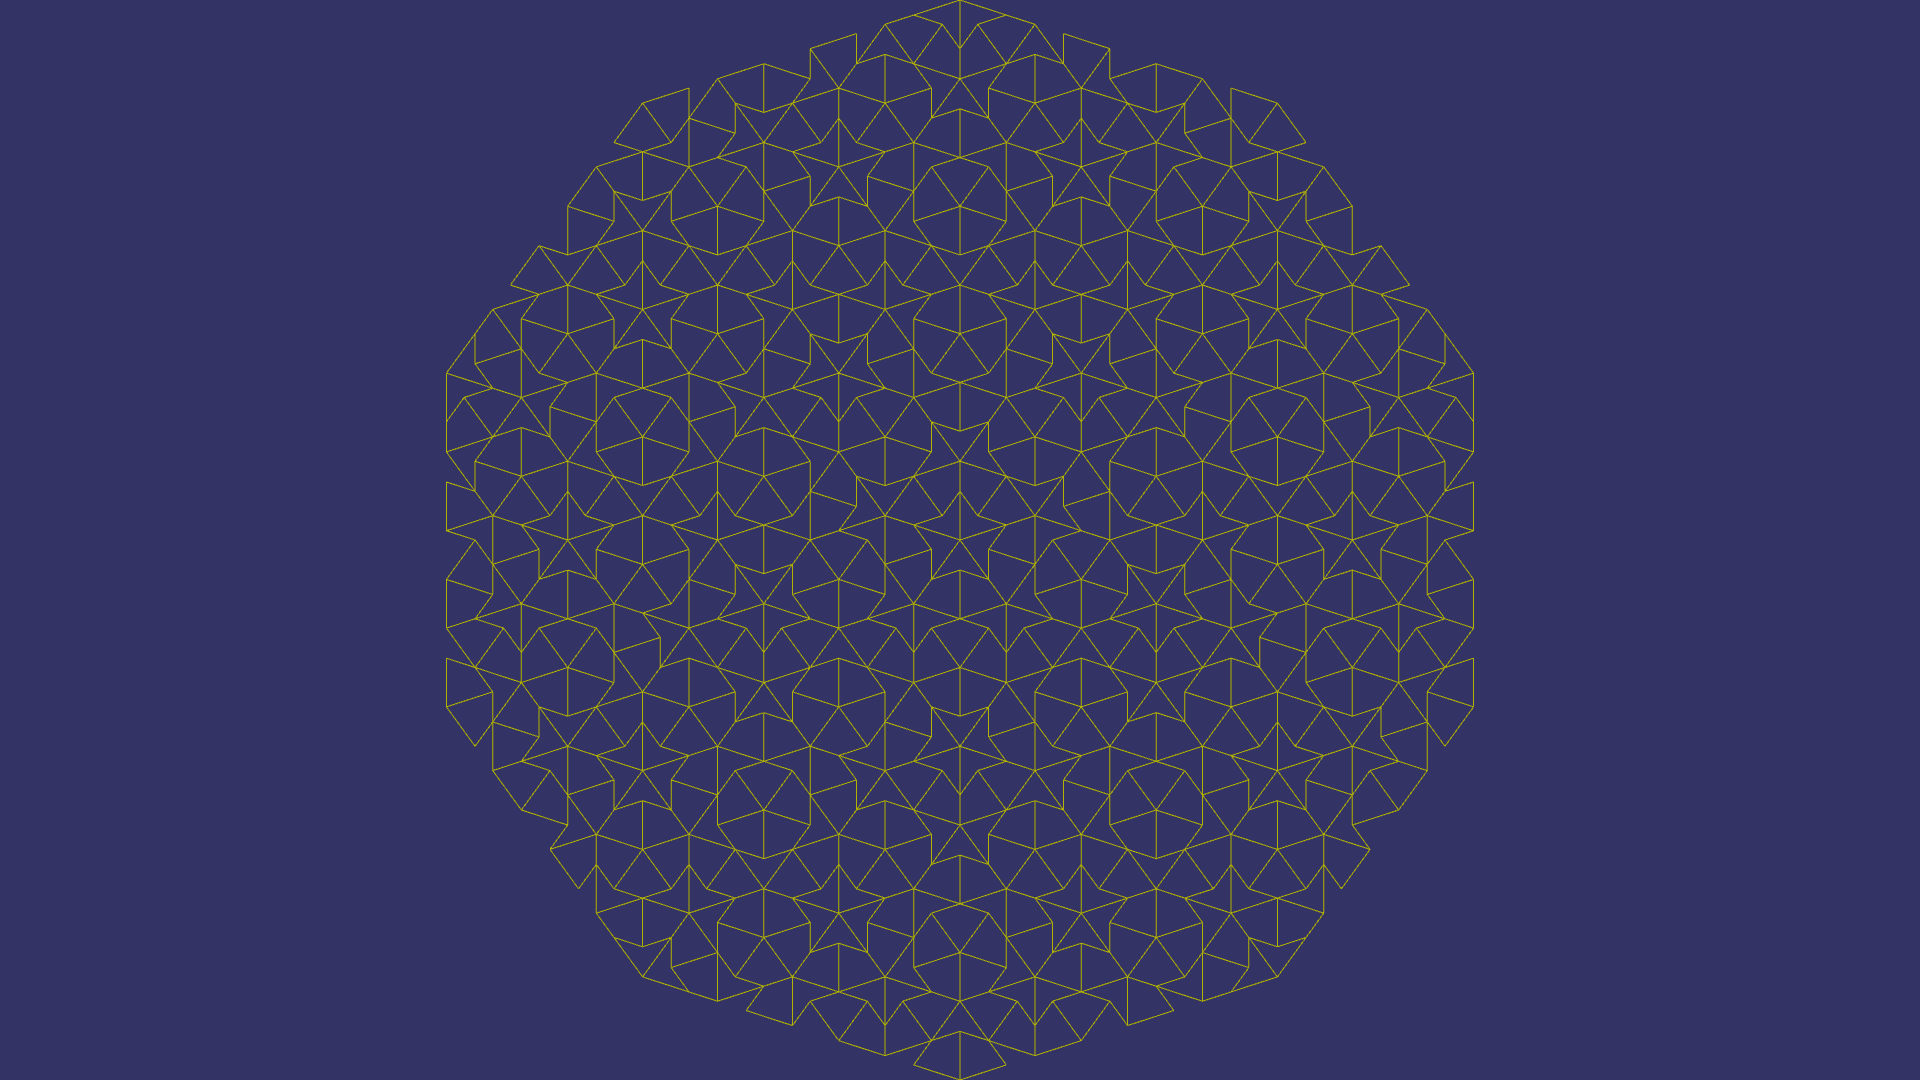
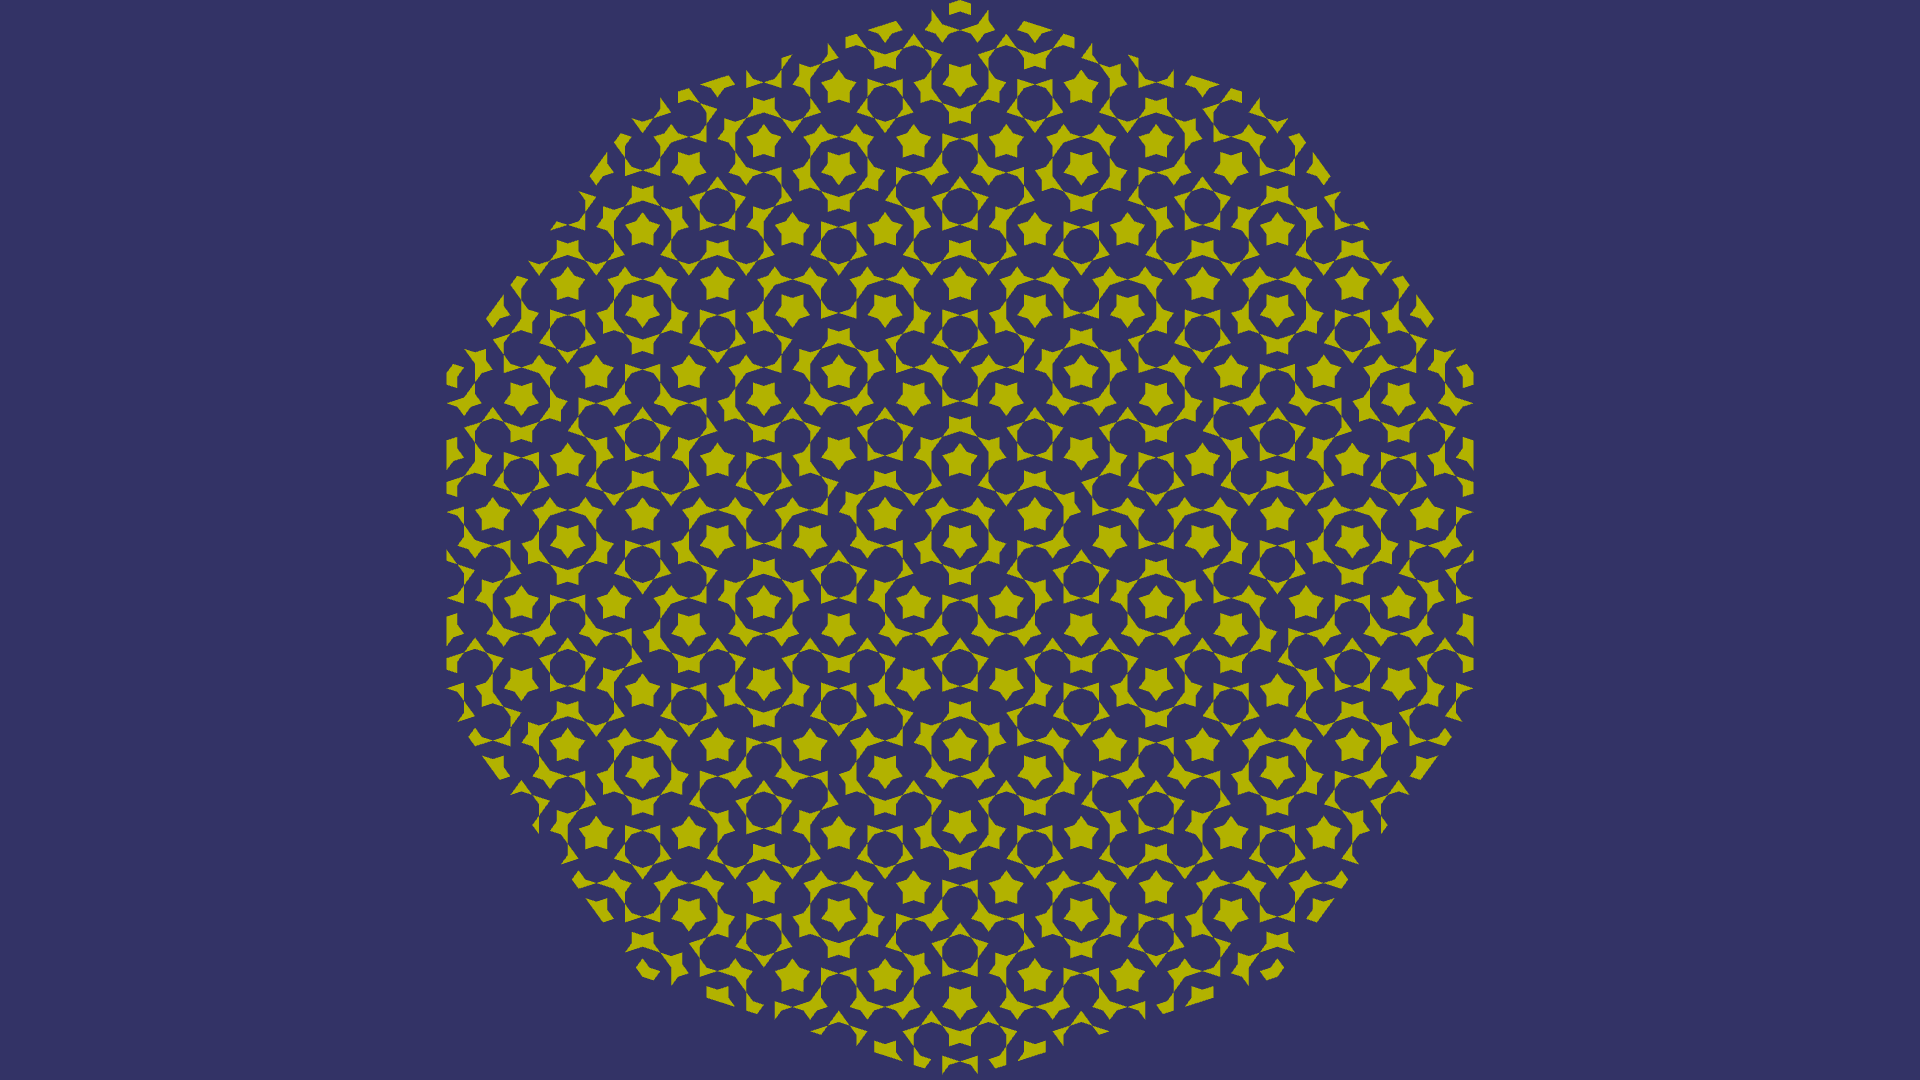
shading t124 triangles, need to shade t123 and lines in parallel

Changed region(s): [[0.2188, 0.0, 0.7812, 1.0]]

diff --git a/penrose.cpp b/penrose.cpp
@@ -5,14 +5,13 @@
 #include <glm/gtx/rotate_vector.hpp>
 
 #include <array>
-#include <iostream>
 #include <vector>
 
 #include "shader.hpp"
 
 static const uint32_t window_w = 1920;
 static const uint32_t window_h = 1080;
-static const uint32_t depth = 5;
+static const uint32_t depth = 7;
 
 static const glm::vec4 primary(0.7f, 0.7f, 0.0f, 1.0f);
 static const glm::vec4 background(0.2f, 0.2f, 0.4f, 1.0f);
@@ -26,7 +25,7 @@ struct triangle {
     std::vector<triangle*> subtriangles;
 };
 
-void split(triangle& parent, std::vector<glm::vec2>& points, std::vector<uint32_t>& tri_indices, std::vector<uint32_t>& line_indices, uint32_t depth) {
+void split(triangle& parent, std::vector<glm::vec2>& points, std::vector<uint32_t>& t123_indices, std::vector<uint32_t>& t124_indices, std::vector<uint32_t>& line_indices, uint32_t depth) {
     uint32_t s = points.size();
     std::array<glm::vec2, 3>& p = parent.points;
     std::array<uint32_t, 3>& i = parent.indices;
@@ -87,8 +86,6 @@ void split(triangle& parent, std::vector<glm::vec2>& points, std::vector<uint32_
         }
 
         if (depth == 1) {
-            tri_indices.insert(tri_indices.end(), t.begin(), t.end());
-
             for (auto& tri : parent.subtriangles) {
                 for (uint32_t k = 0; k < 3; ++k) {
                     if (k != (tri->t_123 ? 2 : 1)) {
@@ -96,11 +93,18 @@ void split(triangle& parent, std::vector<glm::vec2>& points, std::vector<uint32_
                         line_indices.push_back(tri->indices[((k + 1) % 3)]);
                     }
                 }
+
+                if (tri->t_123) {
+                    t123_indices.insert(t123_indices.end(), tri->indices.begin(), tri->indices.end());
+                }
+                else {
+                    t124_indices.insert(t124_indices.end(), tri->indices.begin(), tri->indices.end());
+                }
             }
         }
 
         for (auto& tri : parent.subtriangles) {
-            split(*tri, points, tri_indices, line_indices, depth - 1);
+            split(*tri, points, t123_indices, t124_indices, line_indices, depth - 1);
         }
     }
 
@@ -115,7 +119,8 @@ int main() {
 
     std::vector<triangle> triangles;
     std::vector<glm::vec2> points = { origin, point };
-    std::vector<uint32_t> tri_indices;
+    std::vector<uint32_t> t123_indices;
+    std::vector<uint32_t> t124_indices;
     std::vector<uint32_t> line_indices;
 
     for (uint32_t i = 1; i < poly; ++i) {
@@ -124,19 +129,20 @@ int main() {
     }
 
     for (auto& p : points) {
-        //p = glm::rotate(p, -1.0f * (poly_angle / 2.0f));
+        p = glm::rotate(p, poly_angle);
         p.x = (p.x / window_w) * window_h;
     }
 
     for (uint32_t i = 0; i < poly; i++) {
         std::array<uint32_t, 2> indices = { (i % (poly + 1)) + 1, ((i + 1) % poly) + 1 };
-        if (i % 2 == 0) std::swap(indices[0], indices[1]);
+        if (i & 1) std::swap(indices[0], indices[1]);
 
         triangle t;
         t.t_123 = true;
         t.points = { points[0], points[indices[0]], points[indices[1]] };
         t.indices = { 0, indices[0], indices[1] };
-        split(t, points, tri_indices, line_indices, depth);
+
+        split(t, points, t123_indices, t124_indices, line_indices, depth);
     }
 
     if(!glfwInit())
@@ -174,10 +180,32 @@ int main() {
     glBindBuffer(GL_ARRAY_BUFFER, vertexbuffer);
     glBufferData(GL_ARRAY_BUFFER, points.size() * 4 * 2, &points[0], GL_STATIC_DRAW);
 
+    //uint32_t EBOS[3];
+    //glGenBuffers(3, EBOS);
+
+    //glBindBuffer(GL_ELEMENT_ARRAY_BUFFER, EBOS[0]);
+    //glBufferData(GL_ELEMENT_ARRAY_BUFFER, t123_indices.size() * 4, &t123_indices[0], GL_STATIC_DRAW);
+
+    //glBindBuffer(GL_ELEMENT_ARRAY_BUFFER, EBOS[1]);
+    //glBufferData(GL_ELEMENT_ARRAY_BUFFER, t124_indices.size() * 4, &t124_indices[0], GL_STATIC_DRAW);
+
+    //glBindBuffer(GL_ELEMENT_ARRAY_BUFFER, EBOS[2]);
+    //glBufferData(GL_ELEMENT_ARRAY_BUFFER, line_indices.size() * 4, &line_indices[0], GL_STATIC_DRAW);
+
+    //uint32_t EBO;
+    //glGenBuffers(1, &EBO);
+    //glBindBuffer(GL_ELEMENT_ARRAY_BUFFER, EBO);
+    //glBufferData(GL_ELEMENT_ARRAY_BUFFER, line_indices.size() * 4, &line_indices[0], GL_STATIC_DRAW);
+
+    //uint32_t EBO;
+    //glGenBuffers(1, &EBO);
+    //glBindBuffer(GL_ELEMENT_ARRAY_BUFFER, EBO);
+    //glBufferData(GL_ELEMENT_ARRAY_BUFFER, t123_indices.size() * 4, &t123_indices[0], GL_STATIC_DRAW);
+
     uint32_t EBO;
     glGenBuffers(1, &EBO);
     glBindBuffer(GL_ELEMENT_ARRAY_BUFFER, EBO);
-    glBufferData(GL_ELEMENT_ARRAY_BUFFER, line_indices.size() * 4, &line_indices[0], GL_STATIC_DRAW);
+    glBufferData(GL_ELEMENT_ARRAY_BUFFER, t124_indices.size() * 4, &t124_indices[0], GL_STATIC_DRAW);
 
     GLuint programID = Shader::loadShaders("vertex.vert", "fragment.frag");
     GLint paint = glGetUniformLocation(programID, "paint");
@@ -187,17 +215,19 @@ int main() {
         glClear(GL_COLOR_BUFFER_BIT | GL_DEPTH_BUFFER_BIT);
 
         glUseProgram(programID);
-        glPolygonMode(GL_FRONT_AND_BACK, GL_LINE);
+        glPolygonMode(GL_FRONT_AND_BACK, GL_FILL);
         glUniform4fv(paint, 1, &primary[0]);
 
         glEnableVertexAttribArray(0);
-
         glBindVertexArray(vertexArrayID);
+
         glBindBuffer(GL_ARRAY_BUFFER, vertexbuffer);
         glVertexAttribPointer(0, 2, GL_FLOAT, GL_FALSE, 2 * sizeof(GLfloat), (void*)0);
 
         glBindBuffer(GL_ELEMENT_ARRAY_BUFFER, EBO);
-        glDrawElements(GL_LINES, line_indices.size(), GL_UNSIGNED_INT, 0);
+        //glDrawElements(GL_LINES, line_indices.size(), GL_UNSIGNED_INT, 0);
+        //glDrawElements(GL_TRIANGLES, t123_indices.size(), GL_UNSIGNED_INT, 0);
+        glDrawElements(GL_TRIANGLES, t124_indices.size(), GL_UNSIGNED_INT, 0);
 
         glDisableVertexAttribArray(0);
         glfwSwapBuffers(window);
